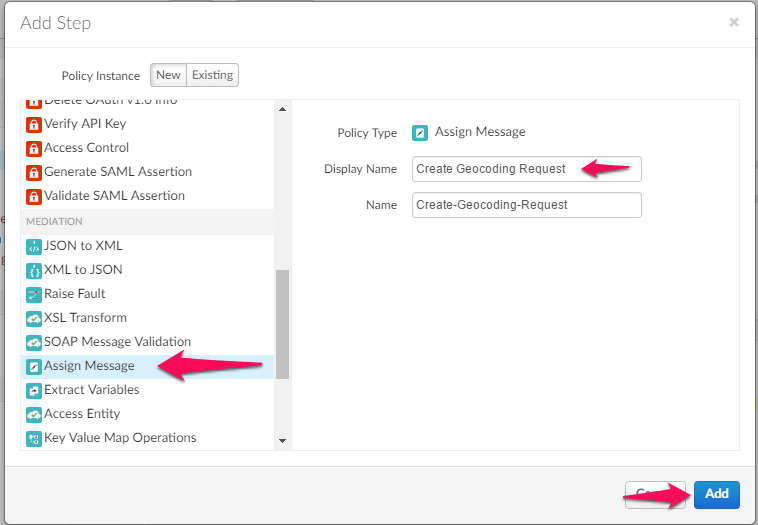
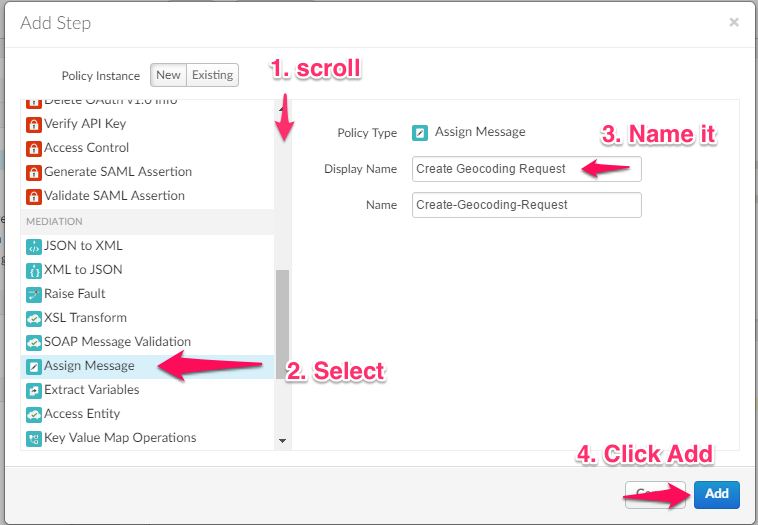
update Lab 10

diff --git a/Labs/Core/10-Composite-APIs/README.md b/Labs/Core/10-Composite-APIs/README.md
@@ -98,6 +98,8 @@ authorization, as well as content-based security.
 
    ![](./media/image_3.png)
 
+6. Scroll down to select an AssignMessage policy. Name it and Add the policy. 
+
    ![](./media/image_4.png)
 
 6. Modify the policy to reflect a request with the appropriate query parameters for the Google Geolocation API.
@@ -134,7 +136,7 @@ authorization, as well as content-based security.
 
    **\<AssignTo\>** - Creates a named variable called ’GeoCodingRequest’of type ‘Request’. This variable encapsulates the request object that will be sent by the ServiceCallout policy.
 
-   *\<Set\>\<QueryParams\>** - Sets the query parameters that are needed for the service callout API call. In this case, the Google Geocoding API needs to know the location, which is expressed with a zipcode. The API calling client supplies this information, and we simply extract it here. The region and sensor parameters are by the API, and we just hardcode it to certain values here.
+   **\<Set\>\<QueryParams\>** - Sets the query parameters that are needed for the service callout API call. In this case, the Google Geocoding API needs to know the location, which is expressed with a zipcode. The API calling client supplies this information, and we simply extract it here. The region and sensor parameters are by the API, and we just hardcode it to certain values here.
 
    **\<Verb\>** - In this case, we are making a GET request to the API.
 
@@ -146,7 +148,7 @@ authorization, as well as content-based security.
 
 
 
-## Use Service Callout Policy to invoke the Google GeoCoding API
+## Use the ServiceCallout Policy to invoke the Google GeoCoding API
 
 1. Click on **+ Step**
 
@@ -158,10 +160,10 @@ authorization, as well as content-based security.
 
    ![image alt text](./media/image_6.png)
 
-   Then click on **Add** button.
+   Then click the **Add** button.
 
 2. Update the **Request** variable from *myRequest* to **GeoCodingRequest** and also
-   update the *Response* variable from *calloutResponse* to **GeoCodingResponse**.
+   update the **Response** variable from *calloutResponse* to **GeoCodingResponse**.
 
    ![image alt text](./media/image_7.png)
 
@@ -180,14 +182,14 @@ authorization, as well as content-based security.
 
    ![image alt text](./media/image_8.png)
 
-   Scroll down the policy list and select **Extract Variables** and update the
+2. Scroll down the policy list and select **Extract Variables** and update the
    default display name to **Extract Geocodes**
 
    ![image alt text](./media/image_9.png)
 
-   Then click on **Add**.
+   Then click **Add**.
 
-2. Update the policy to parse the **GeoCodingResponse** and store the results in variables.
+3. Update the policy to parse the **GeoCodingResponse** and store the results in variables.
 
    ```
    <ExtractVariables name="Extract-Geocodes">
@@ -215,7 +217,7 @@ authorization, as well as content-based security.
 
    This ExtractVariables policy will produce two variables whose names consist of the variable prefix (geocodeResponse) and the actual variable names that are specified in the policy. These variables are stored in the API proxy and will be available to other policies within the proxy flow, as you will see. The variables are: geocodeResponse.latitude & geocodeResponse.longitude
 
-4. Save the API Proxy.
+4. Click **Save** to save the API Proxy.
 
 
 
@@ -225,11 +227,11 @@ authorization, as well as content-based security.
 
    ![image alt text](./media/image_10.png)
 
-   Scroll down the policy list and select **Javascript** and update the default display name to **Create Location Query** select *Create New Script* and then name it **Create-Location-Query.js**
+2. Scroll down the policy list and select **Javascript** and update the default display name to **Create Location Query** select *Create New Script* and then name it **Create-Location-Query.js**
 
    ![image alt text](./media/image_11.png)
 
-2. Select the newly created script file and add the following code:
+3. Select the newly created script file and add the following code:
 
    ![image alt text](./media/image_12.png)
 
@@ -261,11 +263,11 @@ authorization, as well as content-based security.
 
    ![image alt text](./media/image_13.png)
 
-   Scroll down the policy list and select **Assign Message** and update the default display name to **Set Query Parameters**
+2. Scroll down the policy list and select **Assign Message** and update the default display name to **Set Query Parameters**
 
    ![image alt text](./media/image_14.jpg)
 
-2. Update the policy to include the *baasQL* as a query parameter and remove the zipcode and radius query parameters from the request.
+3. Update the policy to include the *baasQL* as a query parameter and remove the zipcode and radius query parameters from the request.
 
    ```
    <AssignMessage name="Set-Query-Parameters">
@@ -292,59 +294,55 @@ authorization, as well as content-based security.
 
 ## Testing the API Proxy with the location query after deploying changes
 
-* Click on the **Save** button to save and deploy the changes to the API Proxy.
+1. Click on the **Save** button to save and deploy the changes to the API Proxy.
 
-![image alt text](./media/image_15.png)
+   ![image alt text](./media/image_15.png)
 
-*  Go to the **Trace** tab and start a trace session by clicking the *Start Trace Session* button.
+2. Go to the **Trace** tab and start a trace session by clicking the *Start Trace Session* button.
 
-![image alt text](./media/image_16.png)
+   ![image alt text](./media/image_16.png)
 
-* Using your browser or the [Apigee REST Client](https://apigee-rest-client.appspot.com/), invoke the API with the following query parameter combinations and review the results being returned:
-```
-zipcode=31721&radius=20000
-```
-```
-zipcode=31721&radius=500000
-```
-```
-No query parameters
-```
+3. Using your browser or the [Apigee REST
+   Client](https://apigee-rest-client.appspot.com/), invoke the API with the
+   following query parameter combinations and review the results being returned:
+   `zipcode=31721&radius=20000`  
+   `zipcode=31721&radius=500000`  
+   `(No query parameters)`  
 
-Note: radius is measured in meters.
+   Note: radius is measured in meters.
 
-Example URL: 
-```
-http://apigeedemovideos-test.apigee.net/v1/ap_employees?zipcode=31721&radius=20000
-```
+   Example URL: 
+   `http://apigeedemovideos-test.apigee.net/v1/ap_employees?zipcode=31721&radius=20000`
 
 # Lab Video
 
-If you like to learn by watching, here is a short video on creating a mash-up services [https://youtu.be/S4SLEogusp**4](https://youtu.be/S4SLEogusp4)
+If you like to learn by watching, here is [a short video on creating a mash-up services](https://youtu.be/S4SLEogusp4)
 
 # Earn Extra-points
 
 You should may have noticed at the end of the lab, if you did not include the **radius **and **zipcode** query parameters, you will receive an Unresolved variable error. You can add a conditional policy to the steps you defined in the API Proxy PreFlow to automatically detect if the query parameters were not passed.
 
-* Under Proxy Endpoints, select PreFlow.
+1. Under Proxy Endpoints, select PreFlow.
 
-![image alt text](./media/image_17.png)
+   ![image alt text](./media/image_17.png)
 
-* For each Step, add a condition to check for null query parameters.
+2. For each Step, add a condition to check for null query parameters.
 
-```
-<Condition>(request.queryparam.radius != null) and (request.queryparam.zipcode != null)</Condition>
-```
+   ```
+   <Condition>(request.queryparam.radius != null) and (request.queryparam.zipcode != null)</Condition>
+   ```
 
-![image alt text](./media/image_18.png)
+   ![image alt text](./media/image_18.png)
 
-* Start a new **Trace** session and invoke the API again. You should no longer receive the **Unresolved variable **error and now receive a full list of all employees from the Employees API.
+3. Start a new **Trace** session and invoke the API again. You should no longer receive the **Unresolved variable **error and now receive a full list of all employees from the Employees API.
 
-# Quiz
+
+# For Discussion
 
 1. Which policy performed the actual request to the Google Geocoding API?
 
 2. In this lab, we used the Javascript policy to set variables used in the request to the backend. What other policy could we use to achieve the same result?
+
 
 # Summary
 
@@ -356,7 +354,7 @@ Common themes and use cases, are best handled with standard implementations and 
 
 * Useful Apigee documentation links on API Mashups 
 
-    * Watch this 4 minute video on "Create a Mashup using Edge" - [https://youtu.be/Htx5cdinNBQ](https://youtu.be/Htx5cdinNBQ) 
+    * Watch this [4 minute video entitled "Create a Mashup using Edge"](https://youtu.be/Htx5cdinNBQ) 
 
 # Rate this lab
 
